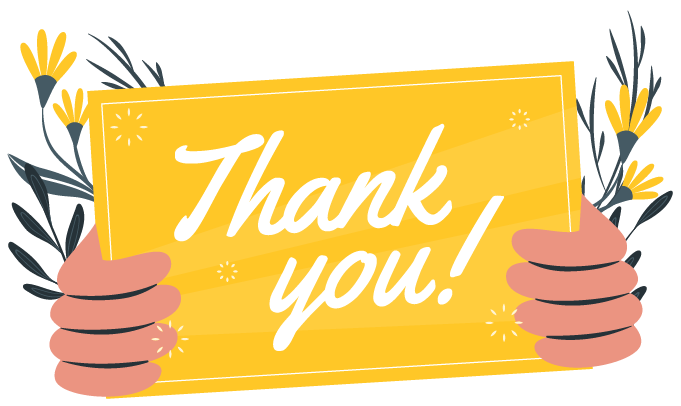
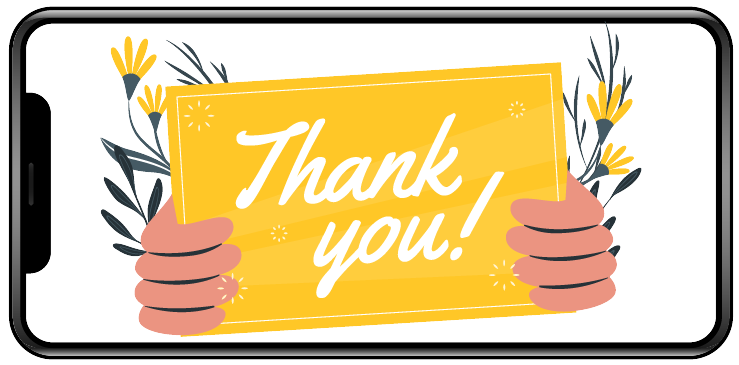
Bilder von Mobile Anwendung aktualisiert

diff --git a/src/thema_ma/level3.css b/src/thema_ma/level3.css
@@ -185,6 +185,10 @@ body {
         width: 300px;
         height: 420px;
     }
+    .bild1_container .bild4{
+        width: 300px;
+        height: 420px;
+    }
 }
 
 #image-container {
@@ -246,13 +250,13 @@ body {
 }
 
 .bild1_container .bild3{
-    width: 200px;
-    height: 350px;
+    width: 300px;
+    height: 420px;
 }
 
 .bild1_container .bild4{
-    width: 200px;
-    height: 350px;
+    width: 300px;
+    height: 420px;
 }
 
 .bild1_container .bild5{
